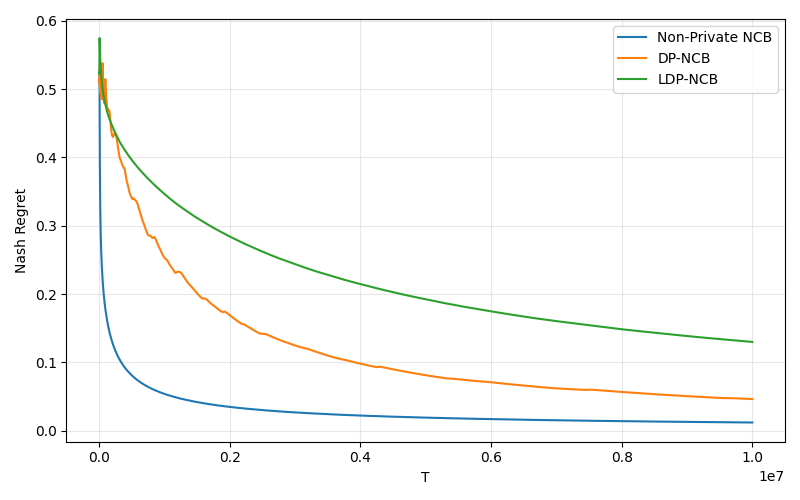
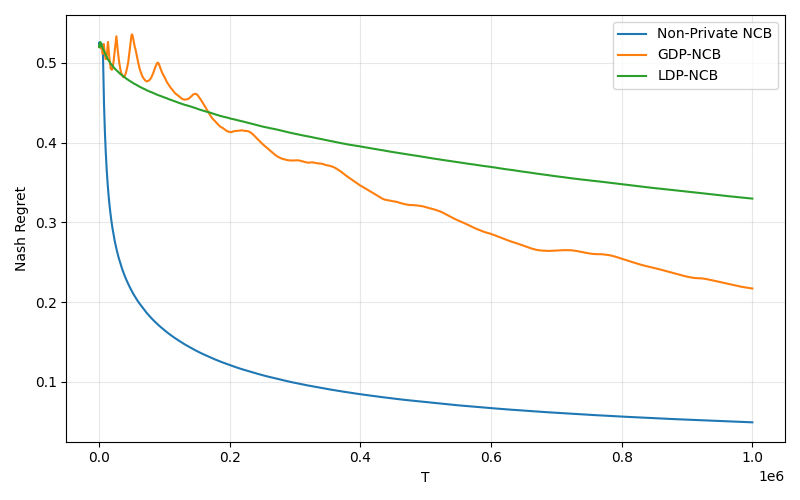
added the correct terminating condition

diff --git a/main.py b/main.py
@@ -5,7 +5,7 @@ import matplotlib.pyplot as plt
 import os
 from AdaPUCB import simulate_adap_ucb
 from NCBNonPrivate import simulate_ncb
-from DPNCB import simulate_DP_NCB
+from GDPNCB import simulate_GDP_NCB
 from Expt_1 import run_expt_1
 from LDPNCB import simulate_LDP_NCB
 
@@ -14,8 +14,8 @@ from LDPNCB import simulate_LDP_NCB
 
 path_to_cached = "/Users/nishantpandey/Desktop/DP-NCB/DP-NCB/Cached"
 path_to_results = "/Users/nishantpandey/Desktop/DP-NCB/DP-NCB/Results"
-# path_to_cached = "/Users/nishant.pandey1/Desktop/scratchy/untitled folder/DP-NCB/Cached"
-# path_to_results = "/Users/nishant.pandey1/Desktop/scratchy/untitled folder/DP-NCB/Results"
+# path_to_cached = "/Users/nishant.pandey1/Desktop/scratchy/untitled folder/GDP-NCB/Cached"
+# path_to_results = "/Users/nishant.pandey1/Desktop/scratchy/untitled folder/GDP-NCB/Results"
 
 if not os.path.exists(path_to_cached):
     os.makedirs(path_to_cached)
@@ -25,7 +25,7 @@ if not os.path.exists(path_to_results):
 
 
 
-def plot_type_1(avg_regret, avg_regret_ldpncb, avg_regret_dpncb, expt):
+def plot_type_1(avg_regret, avg_regret_ldpncb, avg_regret_gdpncb, expt):
     ts = np.arange(1, T_max+1)
 
 
@@ -34,7 +34,7 @@ def plot_type_1(avg_regret, avg_regret_ldpncb, avg_regret_dpncb, expt):
 
     ts = ts[idxs]                    ## getting only 100k points for smooth plots
     avg_regret = avg_regret[idxs]
-    avg_regret_dpncb  = avg_regret_dpncb[idxs]
+    avg_regret_gdpncb  = avg_regret_gdpncb[idxs]
     avg_regret_ldpncb  = avg_regret_ldpncb[idxs]
 
         
@@ -42,12 +42,10 @@ def plot_type_1(avg_regret, avg_regret_ldpncb, avg_regret_dpncb, expt):
 
     plt.figure(figsize=(8, 5))
     plt.plot(ts[mask], avg_regret[mask], label=f"Non-Private NCB")
-    plt.plot(ts[mask], avg_regret_dpncb[mask], label=r'DP-NCB')
+    plt.plot(ts[mask], avg_regret_gdpncb[mask], label=r'GDP-NCB')
     plt.plot(ts[mask], avg_regret_ldpncb[mask], label=r'LDP-NCB')
-    # plt.plot(ts[mask], bound_plot[mask], '--', label=r'Theoretical Bound $O\left(\sqrt{\frac{k\log T}{T}} + \frac{(\log T)^2}{\epsilon T}\right)$')
     # plt.xscale('log')
     plt.xlabel('T (log scale)' if plt.gca().get_xscale() == 'log' else 'T')
-    # plt.xticks([2*10**6, 4*10**6, 6*10**6, 8*10**6, 10**7], [ f"2000000", f"4000000", f"6000000", f"8000000", f"10000000"])
     plt.ylabel("Nash Regret")
     plt.legend()
     plt.grid(alpha=0.3)
@@ -68,17 +66,17 @@ def plot_type_2(regrets):
     avg_regret_1  = regrets[3][idxs]
     avg_regret_2  = regrets[4][idxs]
 
-    mask = (ts >= 1e2) & (ts<= 1e7)       # to plot between 1e6 and 6e6
+    mask = (ts >= 1e2) & (ts<= T_max)       # to plot between 1e6 and 6e6
 
     plt.figure(figsize=(8, 5))
     plt.plot(ts[mask], avg_regret[mask], label=f"Non-Private NCB")
-    plt.plot(ts[mask], avg_regret_02[mask], label=r"DP-NCB, $\epsilon=0.2$")
-    plt.plot(ts[mask], avg_regret_05[mask], label=r'DP-NCB, $\epsilon=0.5$')
-    plt.plot(ts[mask], avg_regret_1[mask], label=r'DP-NCB, $\epsilon=1$')
-    plt.plot(ts[mask], avg_regret_2[mask], label=r'DP-NCB, $\epsilon=2$')
+    plt.plot(ts[mask], avg_regret_02[mask], label=r"GDP-NCB, $\epsilon=0.2$")
+    plt.plot(ts[mask], avg_regret_05[mask], label=r'GDP-NCB, $\epsilon=0.5$')
+    plt.plot(ts[mask], avg_regret_1[mask], label=r'GDP-NCB, $\epsilon=1$')
+    plt.plot(ts[mask], avg_regret_2[mask], label=r'GDP-NCB, $\epsilon=2$')
     # plt.xscale('log')
+    plt.xticks([2*10**6, 4*10**6, 6*10**6, 8*10**6, 10**7], [ f"2e6", f"4e6", f"6e6", f"8e6", f"1e7"])
     plt.xlabel('T (log scale)' if plt.gca().get_xscale() == 'log' else 'T')
-    plt.xticks([2*10**6, 4*10**6, 6*10**6, 8*10**6, 10**7], [ f"2000000", f"4000000", f"6000000", f"8000000", f"10000000"])
     plt.ylabel("Nash Regret")
     plt.legend()
     plt.grid(alpha=0.3)
@@ -89,7 +87,7 @@ def plot_type_2(regrets):
 
 if __name__ == "__main__":
 
-    # np.random.seed(42)
+    np.random.seed(42)
 
     ##### PARAMETERS
     num_trials = 50
@@ -98,11 +96,11 @@ if __name__ == "__main__":
     test_type = 0
     epsilon = 2
 
-    ################# Experiment 1: Comparing Nash Regret for AdaP-UCB and DP-NCB for 2 bernoulli arms with means (2e)^-T and 1 #################
+    ################# Experiment 1: Comparing Nash Regret for AdaP-UCB and GDP-NCB for 2 bernoulli arms with means (2e)^-T and 1 #################
 
-    run_expt_1(num_trials, c, alpha, test_type, epsilon)
+    # run_expt_1(num_trials, c, alpha, test_type, epsilon)
 
-    ################# Experiment 2: Comparing various algorithms for Epsilon = 2, Bernoulli #################
+    ################# Experiment 2: Comparing GDP-NCB and LDP-NCB for Epsilon = 0.2, Bernoulli #################
 
     means = np.random.uniform(0.005, 1, size=50)
     # means = [0.25, 0.375, 0.5, 0.625, 0.75]
@@ -110,27 +108,34 @@ if __name__ == "__main__":
 
     epsilon = 0.2
 
-    # avg_regret = np.load("Cached/regret_NCB_non_private.npy")     #prelo
-    avg_regret = simulate_ncb(means, T_max, num_trials, c, test_type)
-    np.save("Cached/regret_NCB_non_private.npy", avg_regret)
-    avg_regret_ldp_ncb = simulate_LDP_NCB(means, T_max, epsilon, alpha, num_trials, c, test_type)
-    np.save("Cached/regret_LDP_NCB_eps_2.npy", avg_regret_ldp_ncb)
-    avg_regret_dpncb = simulate_DP_NCB(means, T_max, epsilon, alpha, num_trials, c, test_type)
-    np.save("Cached/regret_DP_NCB_eps_2.npy", avg_regret_dpncb)
+    # avg_regret = np.load("Cached/regret_NCB_non_private.npy")     #preload
+    # avg_regret = simulate_ncb(means, T_max, num_trials, c, test_type)
+    # np.save("Cached/regret_NCB_non_private.npy", avg_regret)
+    # avg_regret_ldp_ncb = simulate_LDP_NCB(means, T_max, epsilon, alpha, num_trials, c, test_type)
+    # np.save("Cached/regret_LDP_NCB_eps_02.npy", avg_regret_ldp_ncb)
+    # avg_regret_dpncb = simulate_GDP_NCB(means, T_max, epsilon, alpha, num_trials, c, test_type)
+    # np.save("Cached/regret_GDP_NCB_eps_02.npy", avg_regret_dpncb)
+
+    # # avg_regret = np.load("Cached/regret_NCB_non_private.npy")
+    # # avg_regret_ldp_ncb = np.load("Cached/regret_LDP_NCB_eps_02.npy")
+    # # avg_regret_dpncb = np.load("Cached/regret_GDP_NCB_eps_02.npy")
 
 
-    plot_type_1(avg_regret, avg_regret_ldp_ncb, avg_regret_dpncb, 2)
+    # plot_type_1(avg_regret, avg_regret_ldp_ncb, avg_regret_dpncb, 2)
 
 
-    ################# Experiment 3 : DP-NCB for different epsilon ####################
+    # ################# Experiment 3 : GDP-NCB and LDP-NCB for different epsilon ####################
+
+    # regret_non_private = simulate_ncb(means, T_max, num_trials, c, test_type)
 
     regret_non_private = np.load("Cached/regret_NCB_non_private.npy")
-    regret_dpncb_02 = np.load("Cached/regret_DP_NCB_eps_2.npy")
-    regret_dpncb_05 = simulate_DP_NCB(means, T_max, 0.5, alpha, num_trials, c, test_type)
-    regret_dpncb_1 = simulate_DP_NCB(means, T_max, 1, alpha, num_trials, c, test_type)
-    regret_dpncb_2 = simulate_DP_NCB(means, T_max, 2, alpha, num_trials, c, test_type)
+    regret_gdpncb_02 = np.load("Cached/regret_GDP_NCB_eps_02.npy")
+    # regret_gdpncb_02 = simulate_GDP_NCB(means, T_max, 0.2, alpha, num_trials, c, test_type)
+    regret_gdpncb_05 = simulate_GDP_NCB(means, T_max, 0.5, alpha, num_trials, c, test_type)
+    regret_gdpncb_1 = simulate_GDP_NCB(means, T_max, 1, alpha, num_trials, c, test_type)
+    regret_gdpncb_2 = simulate_GDP_NCB(means, T_max, 2, alpha, num_trials, c, test_type)
 
-    plot_type_2([regret_non_private, regret_dpncb_02, regret_dpncb_05, regret_dpncb_1, regret_dpncb_2])
+    plot_type_2([regret_non_private, regret_gdpncb_02, regret_gdpncb_05, regret_gdpncb_1, regret_gdpncb_2])
 
 
 
@@ -142,14 +147,14 @@ if __name__ == "__main__":
     ################# Experiment 4 : Epsilon = 2, Multiple Distributions #################
 
     
-    # avg_regret = simulate_ncb(means, T_max, num_trials, c, test_type)
-    # np.save("Cached/regret_NCB_non_private_multi.npy", avg_regret)
-    avg_regret = np.load("Cached/regret_NCB_non_private.npy")
+    avg_regret = simulate_ncb(means, T_max, num_trials, c, test_type)
+    np.save("Cached/regret_NCB_non_private_multi_mixed.npy", avg_regret)
+    # avg_regret = np.load("Cached/regret_NCB_non_private.npy")
 
     avg_regret_ldp_ncb = simulate_LDP_NCB(means, T_max, epsilon, alpha, num_trials, c, test_type)
-    np.save("Cached/regret_LDP_NCB_eps_2.npy", avg_regret_ldp_ncb)
-    avg_regret_dpncb = simulate_DP_NCB(means, T_max, epsilon, alpha, num_trials, c, test_type)
-    np.save("Cached/regret_DP_NCB_eps_2.npy", avg_regret_dpncb)
+    np.save("Cached/regret_LDP_NCB_eps_02_mixed.npy", avg_regret_ldp_ncb)
+    avg_regret_gdpncb = simulate_GDP_NCB(means, T_max, epsilon, alpha, num_trials, c, test_type)
+    np.save("Cached/regret_GDP_NCB_eps_02_mixed.npy", avg_regret_gdpncb)
 
 
-    plot_type_1(avg_regret, avg_regret_ldp_ncb, avg_regret_dpncb, 4)
+    plot_type_1(avg_regret, avg_regret_ldp_ncb, avg_regret_gdpncb, 4)

diff --git a/LDPNCB.py b/LDPNCB.py
@@ -45,7 +45,24 @@ def sample_reward(mean, test_type):
         else:
             # fallback to Bernoulli
             return 1.0 if u < mean else 0.0
-    
+
+@njit
+def arm_thresholds(mu, n, epsilon, alpha, logT, c):
+    # compute the denom: (μ - (1/ε)*sqrt(8α logT / n))^2 ε^2
+    # note: only for n>0 and μ large enough; else set threshold=∞ so we stop immediately
+    sqrt_term = np.zeros_like(mu)
+    safe_n = np.maximum(n, 1)
+    sqrt_term[n>0] = (1/epsilon)*np.sqrt((8*alpha*logT)/safe_n[n>0])
+    diff = mu - sqrt_term
+    # if diff<=0, we force a tiny positive number so denom->∞ and paper‐term->∞
+    diff = np.maximum(diff, 1e-20)
+    denom = (diff) * (epsilon**2)
+
+    paper_term = (logT**2) / denom
+    return 1600 * (c**2 * logT + paper_term) \
+            + np.sqrt(8 * n * alpha * logT) / epsilon    
+
+
 @njit
 def LDP_NCB_single(means, c, T, W, epsilon, alpha, test_type):
     """Run NCB for T steps, return chosen arms[0..T-1]."""
@@ -60,15 +77,11 @@ def LDP_NCB_single(means, c, T, W, epsilon, alpha, test_type):
     t = 0
 
     # Phase 1: uniform exploration
-    def arm_thresholds(mu):
-        # avoid division-by-zero if mu[i] is zero
-        mu_safe = np.maximum(mu, 1e-20)
-        return 1600 * (c**2 * logT + (logT**2) / (128 * epsilon**2 * mu_safe))
 
     # --- Phase I: uniform exploration until ANY arm breaks the condition ---
     while t <= W:
         lhs = n * mu
-        rhs = arm_thresholds(mu)
+        rhs = arm_thresholds(mu, n, epsilon, alpha, logT, c)
         if not np.all(lhs <= rhs):
             break
 

diff --git a/GDPNCB.py b/GDPNCB.py
@@ -47,7 +47,7 @@ def sample_reward(mean, test_type):
             return 1.0 if u < mean else 0.0
     
 @njit
-def DP_NCB_single(means, c, epsilon, alpha, W, T, test_type):
+def GDP_NCB_single(means, c, epsilon, alpha, W, T, test_type):
     """
     Modified NCB with a private, adaptive Phase II.
     
@@ -141,7 +141,7 @@ def DP_NCB_single(means, c, epsilon, alpha, W, T, test_type):
 
 
 
-def simulate_DP_NCB(means, T_max, epsilon, alpha, num_trials, c, test_type):
+def simulate_GDP_NCB(means, T_max, epsilon, alpha, num_trials, c, test_type):
     """
     Returns an array of length T_max where entry t-1 is the average Nash regret at time t,
     averaged over num_trials independent runs.
@@ -150,8 +150,8 @@ def simulate_DP_NCB(means, T_max, epsilon, alpha, num_trials, c, test_type):
     mu_star = np.max(means)
     total_rewards = []
 
-    for _ in tqdm(range(num_trials), desc=f"DP-NCB Trials"):
-        arms = DP_NCB_single(means, c, epsilon, alpha, W, T_max, test_type)
+    for _ in tqdm(range(num_trials), desc=f"GDP-NCB Trials"):
+        arms = GDP_NCB_single(means, c, epsilon, alpha, W, T_max, test_type)
         rewards = np.array(means)[arms]                # length T_max
         rewards.reshape(1, T_max)
         total_rewards.append(rewards)

diff --git a/Expt_1.py b/Expt_1.py
@@ -312,7 +312,7 @@ def run_expt_1(num_trials, c, alpha, test_type, epsilon):
     plt.figure(figsize=(8, 5))
     # plt.xscale('log')
     plt.plot(t_values, reg1, label = "AdaP-UCB")
-    plt.plot(t_values, reg2, label = "DP-NCB")
+    plt.plot(t_values, reg2, label = "GDP-NCB")
     plt.xlabel('T (log scale)' if plt.gca().get_xscale() == 'log' else 'T')
     plt.ylabel("Nash Regret")
     plt.legend()
